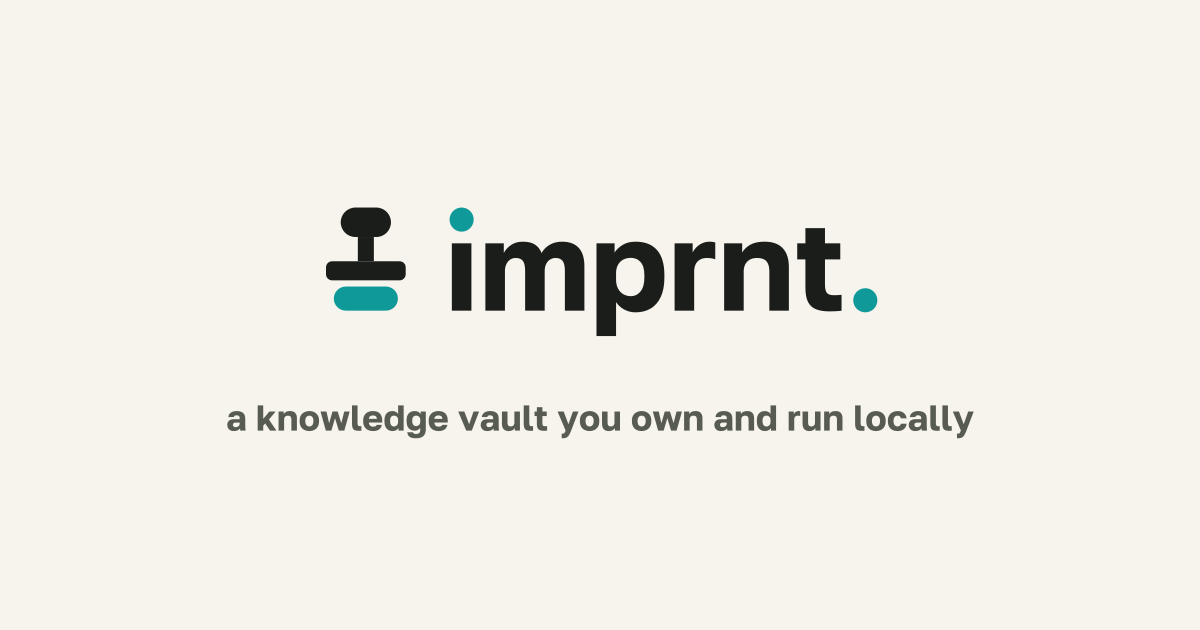
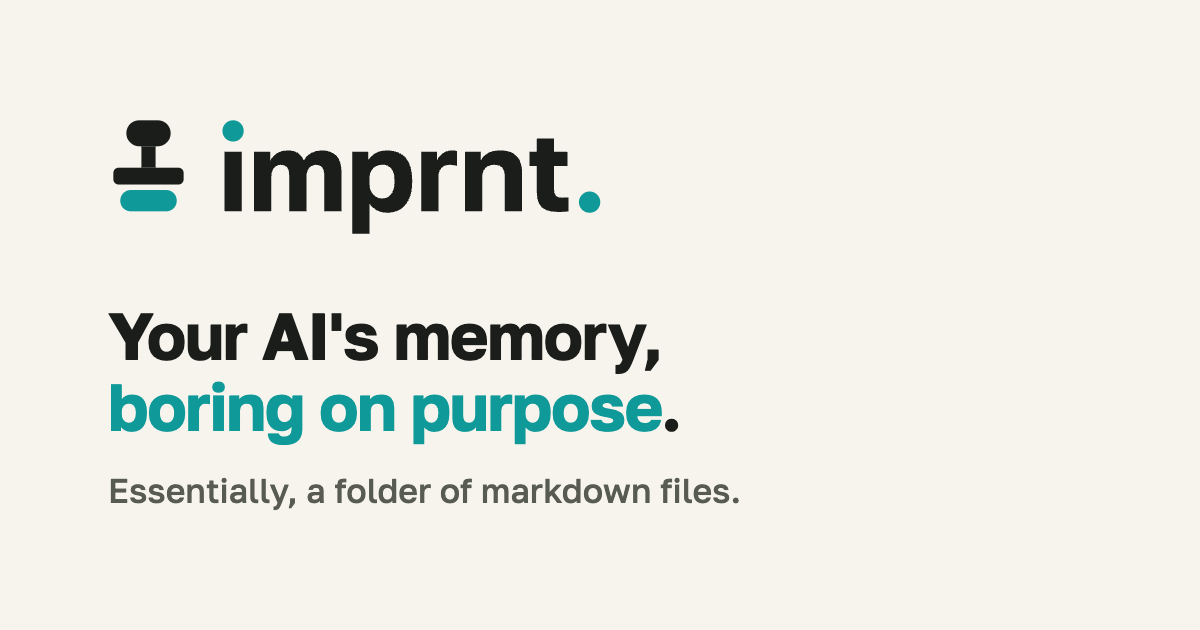
site: share cards and titles carry the banked hero pair
og.png, the landing title and the site description still said a knowledge
vault you own and run locally, a tagline the landing dropped. They now carry
Your AI's memory, boring on purpose over Essentially, a folder of markdown
files. The card is rendered from scripts/og.html, a committed template with
the lockup and Golos, at 1200x630. Docs pages get og:image and twitter:image
in the Starlight head, so a pasted docs link no longer shows a bare card. The
comparison page's eval link pointed at a main branch that does not exist and
now points at master.

Changed region(s): [[0.0925, 0.181, 0.8325, 0.7238], [0.0925, 0.754, 0.6167, 0.8143], [0.0925, 0.181, 0.1542, 0.3317]]

diff --git a/site/scripts/og.html b/site/scripts/og.html
@@ -1,0 +1,37 @@
+<!doctype html>
+<!-- The social card, 1200x630. Render it at that size to public/og.png whenever
+     the hero pair changes. Lockup inlined from src/assets/lockup.svg, Golos from
+     the fontsource package, the same accent as accent.css. -->
+<html lang="en">
+<head>
+<meta charset="utf-8">
+<style>
+  @font-face {
+    font-family: "Golos Text";
+    src: url("../node_modules/@fontsource-variable/golos-text/files/golos-text-latin-wght-normal.woff2") format("woff2");
+    font-weight: 400 900;
+  }
+  html, body { margin: 0; }
+  body {
+    width: 1200px; height: 630px; overflow: hidden;
+    background: #f6f4ec; color: #1b1d1a;
+    font-family: "Golos Text", system-ui, sans-serif;
+    --color-accent: #0f9999;
+    display: flex; flex-direction: column; justify-content: center;
+    padding: 0 108px; box-sizing: border-box;
+  }
+  .lockup { color: #1b1d1a; line-height: 0; }
+  h1 {
+    margin: 64px 0 0; font-size: 66px; font-weight: 700; line-height: 1.08;
+    letter-spacing: -0.022em; text-wrap: balance;
+  }
+  h1 span { color: var(--color-accent); }
+  p { margin: 26px 0 0; font-size: 34px; font-weight: 500; line-height: 1.3; color: #585b51; }
+</style>
+</head>
+<body>
+  <div class="lockup"><svg aria-hidden="true" xmlns="http://www.w3.org/2000/svg" viewBox="0 0 4408.7 1052.0" height="118"><g transform="translate(20.0,832.0)"><rect x="143.2" y="-812.0" width="395.6" height="232.2" rx="116.1" fill="currentColor"/><rect x="277.9" y="-579.8" width="126.2" height="190.8" rx="0.0" fill="currentColor"/><rect x="27.3" y="-388.9" width="627.5" height="150.2" rx="48.1" fill="currentColor"/><rect x="88.7" y="-190.0" width="504.7" height="190.0" rx="95.0" fill="var(--color-accent, var(--sl-color-text-accent))"/><path transform="translate(958.2,0)" d="M59.998804689254214 0.0V-530.0H214.00147506465487V0.0Z M323.9988046892542 0.0V-530.0H469.0011953107458V-454.33466428327887Q486.50123345830053 -489.0004832127087 524.7511762369684 -516.083627923265Q563.0011190156363 -543.1667726338213 619.167815354348 -543.1667726338213Q681.6674974528843 -543.1667726338213 716.334130209751 -519.0836660708197Q751.0007629666177 -495.00055950781814 766.6674974528843 -453.83406662790594Q786.833914037687 -492.16697609262087 828.667319428375 -517.666874363221Q870.500724819063 -543.1667726338213 928.1673830102201 -543.1667726338213Q1014.0008901303079 -543.1667726338213 1058.8341174964867 -494.75015895073193Q1103.6673448626652 -446.33354526764253 1103.6673448626652 -349.50059765537287V0.0H949.9979400009981V-312.0Q949.9979400009981 -368.33234995689673 932.3317523092853 -391.58191125225574Q914.6655646175725 -414.8314725476148 876.1661876994742 -414.8314725476148Q853.166645485654 -414.8314725476148 833.5836533653166 -402.6650813971024Q814.0006612449794 -390.49869024659 802.5008519827531 -367.16574263432034Q791.0010427205268 -343.8327950220507 791.0010427205268 -312.0V0.0H636.9983723451262V-312.0Q636.9983723451262 -368.33234995689673 619.5822037271907 -391.58191125225574Q602.1660351092553 -414.8314725476148 562.4998855573358 -414.8314725476148Q538.5003433435156 -414.8314725476148 519.9173512231782 -402.6650813971024Q501.33435910284095 -390.49869024659 489.6679170837479 -367.16574263432034Q478.00147506465487 -343.8327950220507 478.00147506465487 -312.0V0.0Z M1198.9988046892543 200.0V-530.0H1341.334664283279V-457.8347024308336Q1361.5008774092819 -490.333621562752 1403.1671668303945 -516.7501970982867Q1444.8334562515072 -543.1667726338213 1506.1669760926209 -543.1667726338213Q1618.1673321416395 -543.1667726338213 1675.833964898506 -476.9167917075987Q1733.500597655373 -410.666810781376 1733.500597655373 -280.0V-260.0Q1733.500597655373 -170.33326551373347 1705.5839458247287 -109.5832464399561Q1677.6672939940847 -48.833227366178726 1626.9172749203074 -17.833227366178726Q1576.16725584653 13.166772633821273 1506.1669760926209 13.166772633821273Q1460.6678026333223 13.166772633821273 1420.2514178433228 -7.3328331696054265Q1379.8350330533233 -27.832438973032126 1353.0014750646549 -67.1652975691664V200.0ZM1469.1663402896932 -114.1686037474947Q1515.3321464980972 -114.1686037474947 1545.5816314983467 -151.3347024308336Q1575.8311164985962 -188.50080111417248 1575.8311164985962 -260.0V-280.0Q1575.8311164985962 -348.83254069467046 1546.4150368890346 -382.3319684735879Q1516.9989572794732 -415.83139625250533 1469.1663402896932 -415.83139625250533Q1437.0002288853284 -415.83139625250533 1410.6672812730587 -402.4983850583906Q1384.334333660789 -389.1653738642759 1368.6679043627219 -361.9157108395171Q1353.0014750646549 -334.66604781475826 1353.0014750646549 -295.49940234462713V-244.5005976553729Q1353.0014750646549 -203.500724819063 1368.3345371195887 -174.16767547739357Q1383.6675991745226 -144.8346261357241 1410.250527713015 -129.5016149416094Q1436.8334562515072 -114.1686037474947 1469.1663402896932 -114.1686037474947Z M1813.9988046892543 0.0V-530.0H1956.0011953107457V-458.33466428327887Q1963.8344226769245 -476.3341047754607 1982.7509982124593 -496.3338250215516Q2001.6675737479939 -516.3335452676425 2029.000762966618 -529.7501589507319Q2056.3339521852417 -543.1667726338213 2089.3336724313326 -543.1667726338213Q2105.5001907377737 -543.1667726338213 2115.66692522404 -541.1667726338213Q2125.8336597103066 -539.1667726338213 2134.0 -537.3335452676425V-403.6646999137935Q2129.0002543273804 -406.997965427527 2110.916728133515 -410.9147189875709Q2092.83320193965 -414.8314725476148 2069.4996058034267 -414.8314725476148Q2034.3329603332954 -414.8314725476148 2011.8334181117139 -400.74828968950374Q1989.3338758901323 -386.6651068313927 1978.6676754773935 -362.9987919759898Q1968.0014750646549 -339.3324771205869 1968.0014750646549 -309.33326551373347V0.0Z M2203.998804689254 0.0V-530.0H2346.001195310746V-457.8347024308336Q2366.167967944567 -493.500877409282 2408.411635408887 -518.3338250215517Q2450.655302873207 -543.1667726338213 2522.334359102841 -543.1667726338213Q2617.16751017391 -543.1667726338213 2665.4174275182877 -491.8430698037865Q2713.6673448626652 -440.51936697375163 2713.6673448626652 -344.50059765537287V0.0H2559.997940000998V-310.0Q2559.997940000998 -362.2991073316961 2537.4983596318616 -388.5652899396555Q2514.9987792627253 -414.8314725476148 2464.0462548391706 -414.8314725476148Q2427.166899797511 -414.8314725476148 2403.7119794200726 -400.3437045973552Q2380.2570590426344 -385.8559366470957 2369.129267053645 -362.34444212968265Q2358.001475064655 -338.83294761226966 2358.001475064655 -310.0V0.0Z M3034.0 5.666734486266531Q2968.2358824458893 5.666734486266531 2926.1174834445264 -11.666632756866735Q2883.999084443163 -29.0 2863.9989445662086 -69.50027975390907Q2843.998804689254 -110.00055950781815 2843.998804689254 -180.0011953107458V-403.6646999137935H2779.499402344627V-530.0H2843.998804689254V-650.0H2998.001475064655V-530.0H3118.500597655373V-403.6646999137935H2998.001475064655V-205.1685274523852Q2998.001475064655 -159.83518564354227 3012.278492100203 -140.7518756217411Q3026.5555091357514 -121.66856559993995 3068.500597655373 -121.66856559993995Q3098.500597655373 -121.66856559993995 3128.500597655373 -124.66856559993995V0.45892642494507985Q3109.500597655373 2.666734486266531 3088.6671922646847 4.166734486266531Q3067.833786873997 5.666734486266531 3034.0 5.666734486266531Z" fill="currentColor"/><circle cx="1095.2" cy="-717.0" r="95.0" fill="var(--color-accent, var(--sl-color-text-accent))"/><circle cx="4273.7" cy="-81.8" r="95.0" fill="var(--color-accent, var(--sl-color-text-accent))"/></g></svg></div>
+  <h1>Your AI's memory, <span>boring on purpose</span>.</h1>
+  <p>Essentially, a folder of markdown files.</p>
+</body>
+</html>

diff --git a/site/src/lib/content.ts b/site/src/lib/content.ts
@@ -6,9 +6,9 @@
 
 export const site = {
   name: "imprnt",
-  tagline: "A knowledge vault you own and run locally.",
+  tagline: "Your AI's memory, boring on purpose.",
   description:
-    "imprnt is a local-first, plain-markdown knowledge vault for your AI assistant. The LLM builds the tools, the tools do the work.",
+    "Essentially, a folder of markdown files. A local, plain-markdown memory for your AI assistant: the model files a note once, plain code finds it later.",
   repo: "https://github.com/aleksandr-bogdanov/imprnt",
   install: "npm i -g imprnt && imprnt init",
   principle: "The LLM builds the tools. The tools do the work.",
